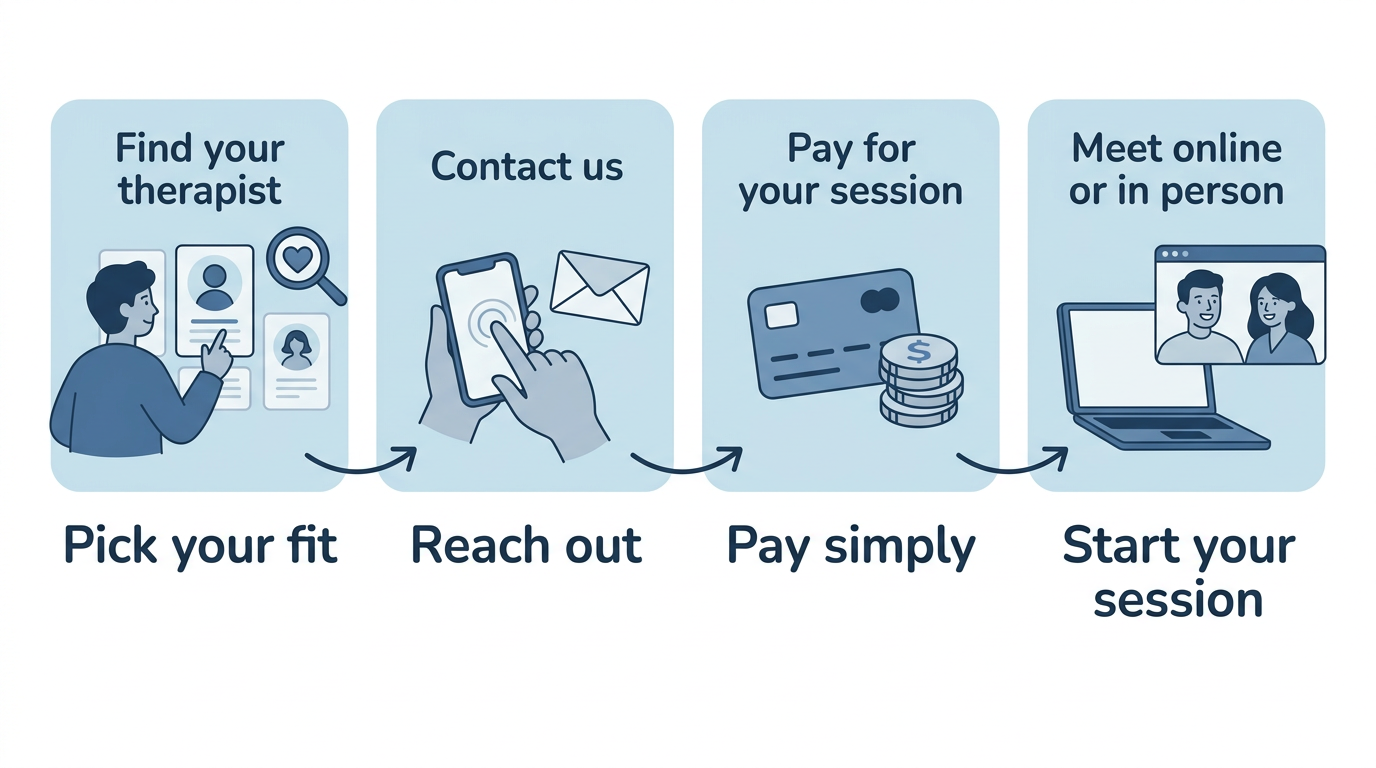
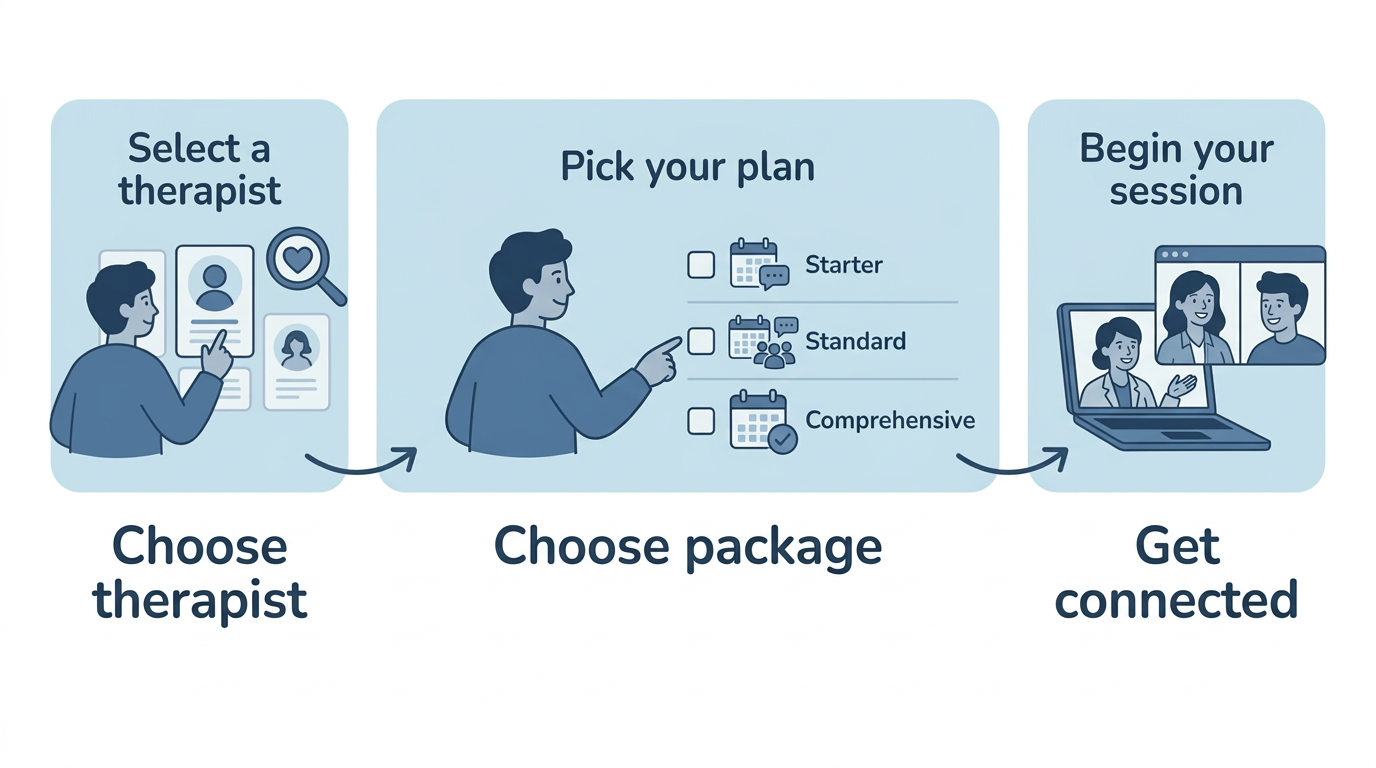
/other: 3-step flow (therapist, package, connect); new diagram; no pay step
Made-with: Cursor

diff --git a/other/index.html b/other/index.html
@@ -57,34 +57,30 @@
       >
         <h2 id="other-booking-heading">How easy it is to book with us</h2>
         <p class="sub">
-          Pick someone who fits, reach out, pay simply, then meet online or in person—clear steps,
-          no maze of forms.
+          Three steps: pick who fits you, choose the package that works, then we connect you with
+          your therapist—clear and straightforward.
         </p>
         <figure class="other-booking-diagram">
           <img
             src="../assets/booking-flow-cartoon.png"
             width="1376"
             height="768"
-            alt="Cartoon diagram in four steps: pick a therapist who fits you, reach out to us, pay simply for your session, then meet online or in person."
+            alt="Cartoon diagram in three steps: choose a therapist, choose your package, get connected with your therapist."
             decoding="async"
           />
         </figure>
         <ol class="other-booking-steps" aria-label="Booking steps in text">
           <li>
-            <strong>Pick your fit</strong>
-            <span>Use the filters below to explore focus areas, then request a match.</span>
+            <strong>Choose your therapist</strong>
+            <span>Use the filters below to explore focus areas, then request a match with someone who fits.</span>
           </li>
           <li>
-            <strong>Reach out</strong>
-            <span>Email or call—we help you confirm details and next steps.</span>
+            <strong>Choose your package</strong>
+            <span>We help you pick a session plan that fits your needs—options and rates are explained clearly.</span>
           </li>
           <li>
-            <strong>Pay simply</strong>
-            <span>$99 per hour; we explain payment before your first session.</span>
-          </li>
-          <li>
-            <strong>Start your session</strong>
-            <span>Secure video or in-person, based on what you choose.</span>
+            <strong>Get connected</strong>
+            <span>We introduce you to your therapist and set up your first session, online or in person.</span>
           </li>
         </ol>
       </section>

diff --git a/other/other.css b/other/other.css
@@ -457,9 +457,9 @@ body.other-page {
   margin: 1.75rem auto 0;
   padding: 0;
   display: grid;
-  grid-template-columns: repeat(4, minmax(0, 1fr));
+  grid-template-columns: repeat(3, minmax(0, 1fr));
   gap: 1rem;
-  max-width: 1000px;
+  max-width: 900px;
   text-align: left;
 }
 
@@ -505,12 +505,6 @@ body.other-page {
   margin-top: 0.75rem;
   font-size: 0.8rem;
   opacity: 0.9;
-}
-
-@media (max-width: 900px) {
-  .other-booking-steps {
-    grid-template-columns: repeat(2, minmax(0, 1fr));
-  }
 }
 
 @media (max-width: 640px) {
